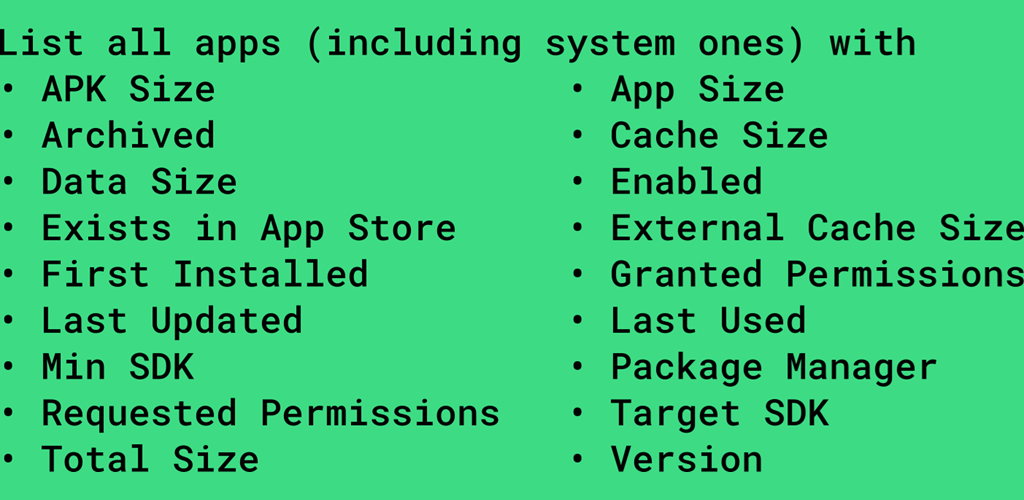
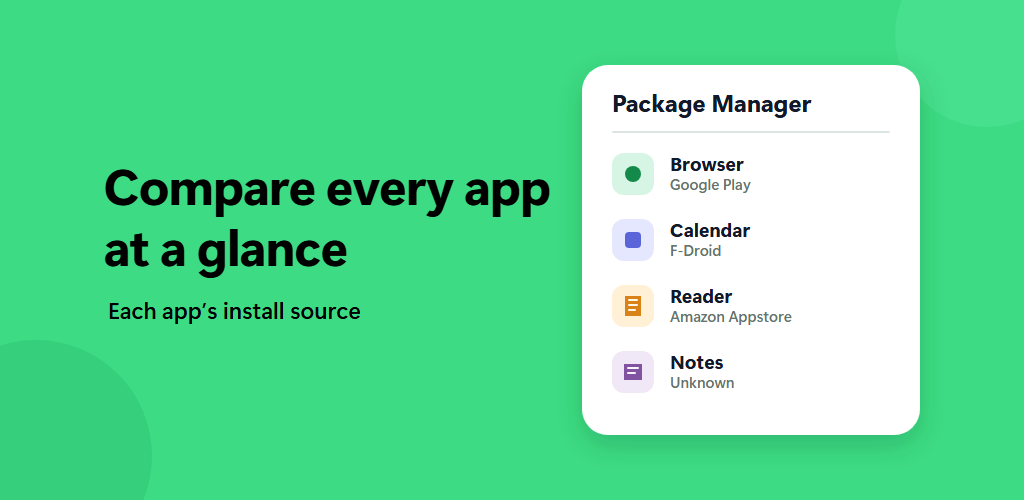
docs: redesign feature graphic and migrate store listings to markdown

diff --git a/store-listing.md b/store-listing.md
@@ -1,0 +1,125 @@
+# App List Store Listings
+
+The values in the `text` blocks are plain text ready to copy into each store's submission form.
+
+## Google Play
+
+[View the published listing](https://play.google.com/store/apps/details?id=com.github.keeganwitt.applist)
+
+### App name
+
+```text
+App List
+```
+
+### Short description
+
+```text
+Compare app details across every app on your device
+```
+
+### Full description
+
+```text
+App List lets you select one application field and compare it across all the apps on your Android device at a glance.
+
+Available fields:
+
+• App name
+• Package name
+• APK size
+• App size
+• Archived status
+• Cache size
+• Data size
+• Enabled status
+• Whether the app exists in an app store
+• External cache size
+• First installed date
+• Granted permission count
+• Last updated date
+• Last used date
+• Minimum SDK
+• Package manager or installer
+• Requested permission count
+• Store URL
+• Target SDK
+• Total size
+• Version
+
+Search and sort the app list, show or hide system and archived apps, and view summaries of the selected field. Export any selection of user, system, or archived apps as XML, HTML, CSV, or TSV.
+
+Storage and last-used fields may require optional Usage Access permission.
+
+https://github.com/keeganwitt/android-app-list
+```
+
+## Amazon Appstore
+
+[View the published listing](https://www.amazon.com/dp/B0GQJLMX38)
+
+### Display title
+
+```text
+App List
+```
+
+### Short description
+
+```text
+Compare app details across every app on your device
+```
+
+### Full description
+
+```text
+App List lets you select one application field and compare it across all the apps on your Android device at a glance.
+
+Available fields:
+
+• App name
+• Package name
+• APK size
+• App size
+• Archived status
+• Cache size
+• Data size
+• Enabled status
+• Whether the app exists in an app store
+• External cache size
+• First installed date
+• Granted permission count
+• Last updated date
+• Last used date
+• Minimum SDK
+• Package manager or installer
+• Requested permission count
+• Store URL
+• Target SDK
+• Total size
+• Version
+
+Search and sort the app list, show or hide system and archived apps, and view summaries of the selected field. Export any selection of user, system, or archived apps as XML, HTML, CSV, or TSV.
+
+Storage and last-used fields may require optional Usage Access permission.
+
+https://github.com/keeganwitt/android-app-list
+```
+
+### Keywords
+
+```text
+app list, installed apps, system apps, app information, package manager, permissions, APK, app export
+```
+
+### Product feature bullets
+
+Enter each feature as a separate line; Amazon adds the bullet formatting.
+
+```text
+Compare one application field across every app on your device at a glance.
+Inspect app names, package names, sizes, permissions, SDK levels, versions, install dates, and more.
+Search and sort installed apps, including system and archived apps.
+View summary statistics for the selected application field.
+Export selected user, system, or archived apps as XML, HTML, CSV, or TSV.
+```
